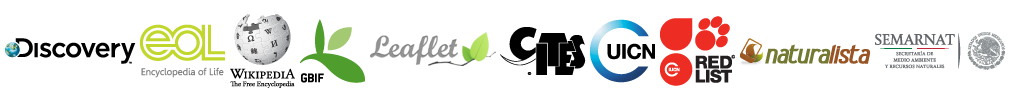
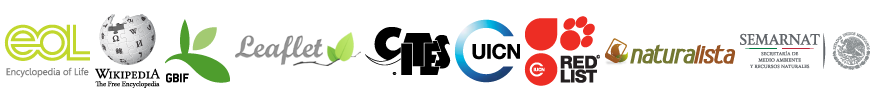
quitando a discovery de los sponsors

diff --git a/app/assets/stylesheets/inicio.scss b/app/assets/stylesheets/inicio.scss
@@ -213,16 +213,15 @@ aside.partners a{
   padding: 0 5px;
 }
 
-#logo_discovery{background-position-x: 0px;width: 140px;}
-#logo_eol{background-position-x: -135px;width: 95px;}
-#logo_wikipedia{background-position-x: -225px;width: 75px;}
-#logo_gbif{background-position-x: -295px;width: 75px;}
-#logo_leaflet{background-position-x: -365px;width: 135px;}
-#logo_cites{background-position-x: -495px;width: 95px;}
-#logo_iucn{background-position-x: -585px;width: 75px;}
-#logo_redlist{background-position-x: -655px;width: 85px;}
-#logo_naturalista{background-position-x: -735px;width: 140px;}
-#logo_semarnat{background-position-x: -870px;width: 135px;}
+#logo_eol{background-position-x: 0px;width: 95px;}
+#logo_wikipedia{background-position-x: -90px;width: 75px;}
+#logo_gbif{background-position-x: -160px;width: 75px;}
+#logo_leaflet{background-position-x: -230px;width: 135px;}
+#logo_cites{background-position-x: -360px;width: 95px;}
+#logo_iucn{background-position-x: -450px;width: 75px;}
+#logo_redlist{background-position-x: -520px;width: 85px;}
+#logo_naturalista{background-position-x: -600px;width: 140px;}
+#logo_semarnat{background-position-x: -735px;width: 135px;}
 
 /*Estilos del video como background de youtube*/
 @import url(http://fonts.googleapis.com/css?family=Roboto+Slab:400);
